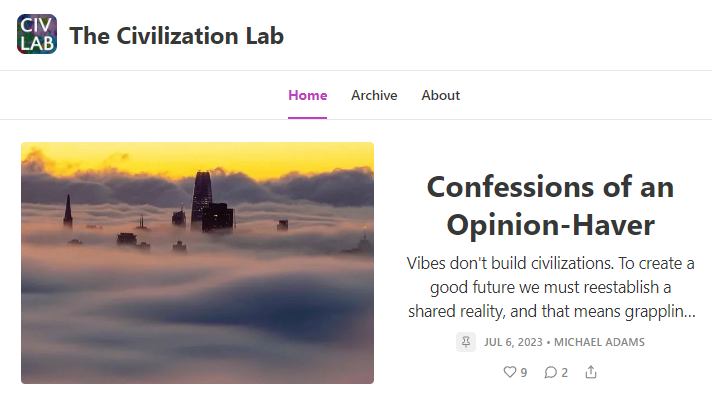
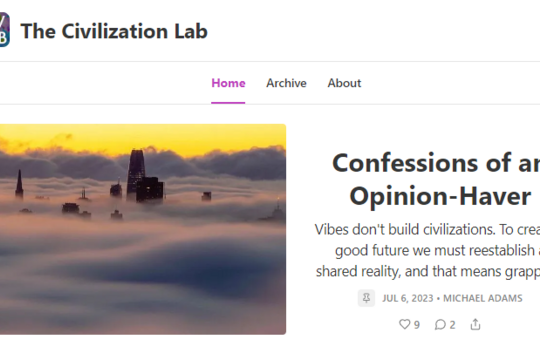
update v3 picture, improve image scaling

diff --git a/index.html b/index.html
@@ -30,7 +30,7 @@
         <section class="content-section">
             <div class="section-media">
                 <a href="https://sfgov.civlab.org" target="_blank" rel="noopener noreferrer">
-                    <img src="./images/sfgv2_hss.png" alt="SF Government Graph" class="section-image-fill clickable-image">
+                    <img src="./images/sf_gov_graph_v3_optimized.png" alt="SF Government Graph" class="section-image-fill clickable-image">
                 </a>
             </div>
             <div class="section-content">
@@ -46,7 +46,7 @@
         <section class="content-section">
             <div class="section-media">
                 <a href="https://www.writing.civlab.org/p/how-sf-government-works-civics-class">
-                    <img src="./images/hsfgw_class_logo.png" alt="How SF Gov Works" class="section-image-fill clickable-image">
+                    <img src="./images/hsfgw_class_logo_optimized.png" alt="How SF Gov Works" class="section-image-fill clickable-image">
                 </a>
             </div>
             <div class="section-content">
@@ -62,7 +62,7 @@
         <section class="content-section">
             <div class="section-media">
                 <a href="https://www.writing.civlab.org/">
-                    <img src="./images/civlab_substack.png" alt="CivLab Substack" class="section-image-fill clickable-image">
+                    <img src="./images/civlab_substack_optimized.png" alt="CivLab Substack" class="section-image-fill clickable-image">
                 </a>
             </div>
             <div class="section-content">

diff --git a/README.md b/README.md
@@ -1,2 +1,28 @@
 # civlab-org
 civlab.org website
+
+## Image Optimization
+
+Images are optimized using ImageMagick for better quality and faster loading:
+
+```bash
+# Install ImageMagick
+sudo apt install imagemagick
+
+# Optimize images for web display (2x resolution for retina screens)
+convert original_image.png -resize 540x360^ -gravity center -extent 540x360 -quality 90 -strip optimized_image.png
+```
+
+**The Problem (CSS Scaling):**
+- Browser downloads 1897×1032px image (7x larger than needed)
+- Browser uses fast bilinear interpolation to scale down in real-time
+- Bilinear scaling averages nearby pixels, creating blur and artifacts
+- Information loss from discarding 6 out of every 7 pixels
+- Different browsers/devices scale differently, causing inconsistency
+
+**The Solution (ImageMagick Pre-scaling):**
+- Lanczos resampling algorithm analyzes larger pixel neighborhoods
+- Preserves edge detail and reduces aliasing artifacts
+- Optimal pixel data for exact display size (540×360 for 270×180 retina)
+- 75% smaller file size with better visual quality
+- Consistent across all devices since scaling is pre-computed
